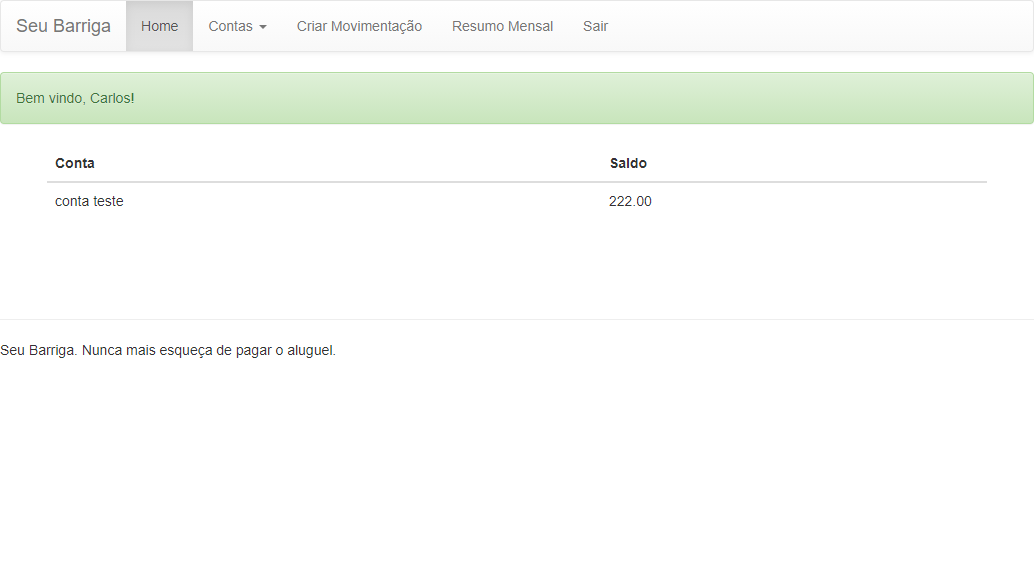
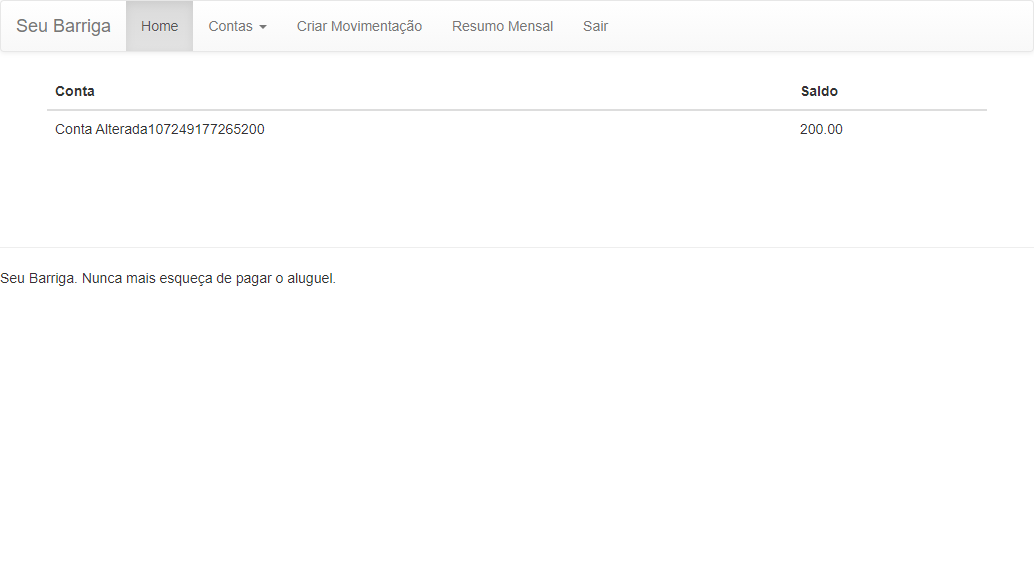
Aplicação Seu Barriga - Seção: 9 Aula: 90

diff --git a/src/main/java/br/carlosab/tests/SaldoTest.java b/src/main/java/br/carlosab/tests/SaldoTest.java
@@ -4,13 +4,17 @@ import org.junit.Assert;
 import org.junit.Test;
 
 import br.carlosab.core.BaseTest;
+import br.carlosab.core.Propriedades;
 import br.carlosab.page.HomePage;
+import br.carlosab.page.MenuPage;
 
 public class SaldoTest extends BaseTest {
 	HomePage page = new HomePage();
+	MenuPage menuPage = new MenuPage();
 
 	@Test
-	public void testSaldoConta(){
-		Assert.assertEquals("222.00", page.obterSaldoConta("conta teste"));
+	public void testSaldoConta() {
+		menuPage.acessaTelaHome();
+		Assert.assertEquals("200.00", page.obterSaldoConta(Propriedades.NOME_DA_CONTA_ALTERADA));
 	}
 }
